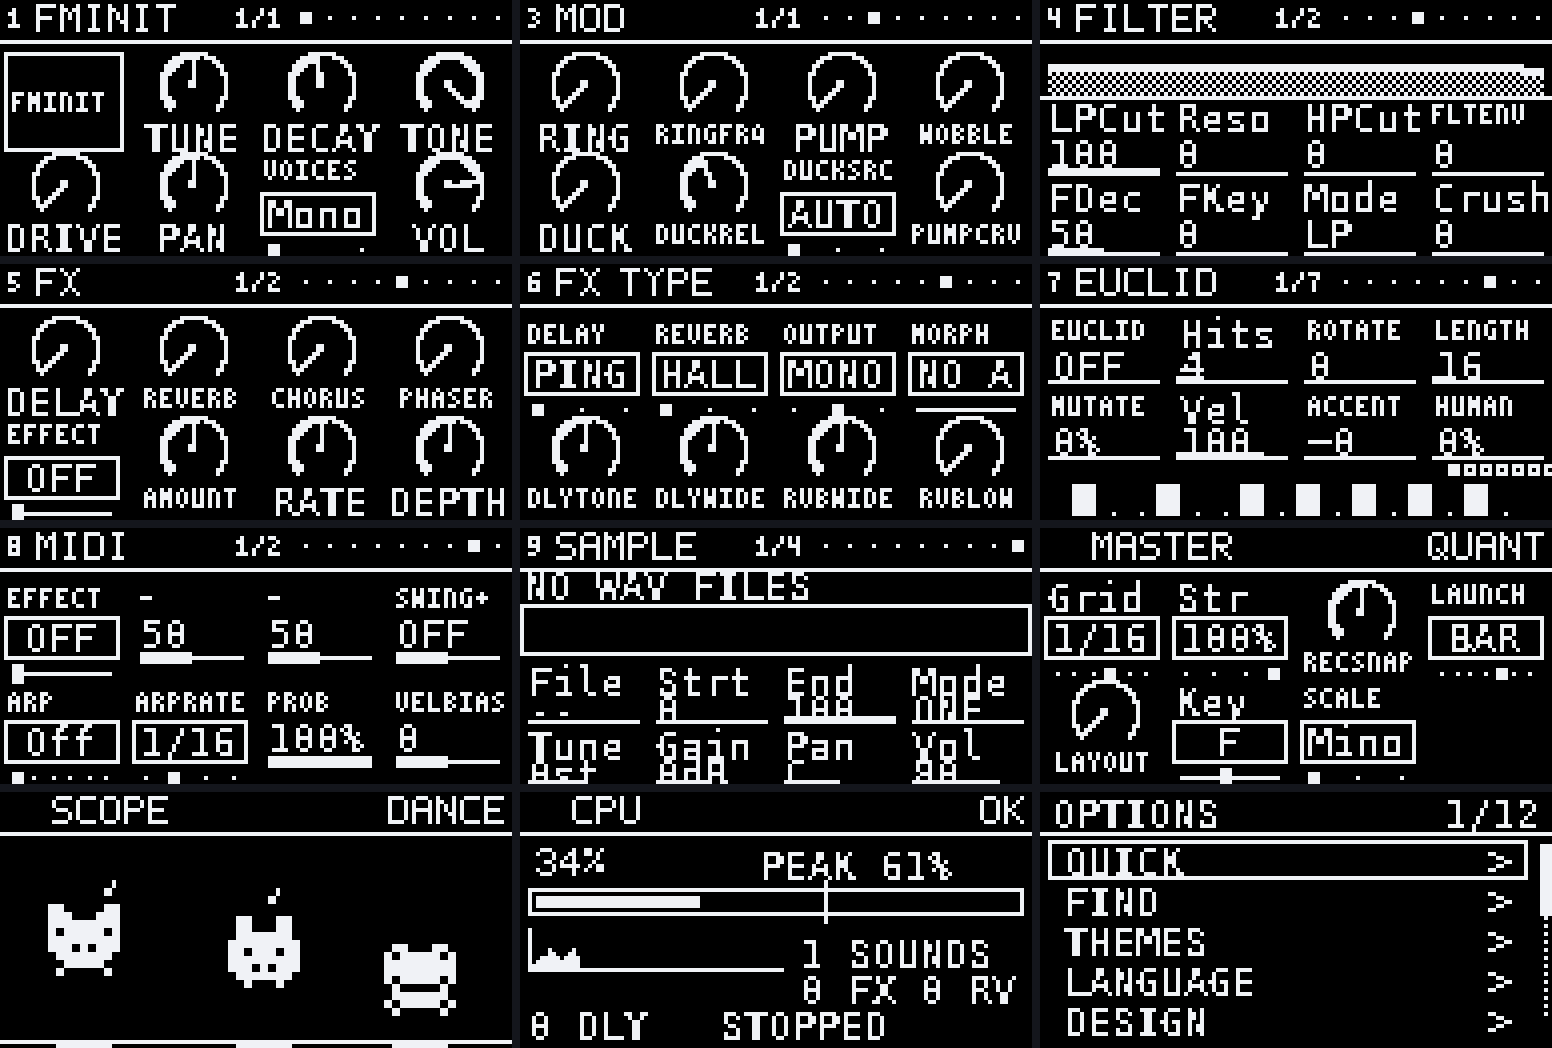
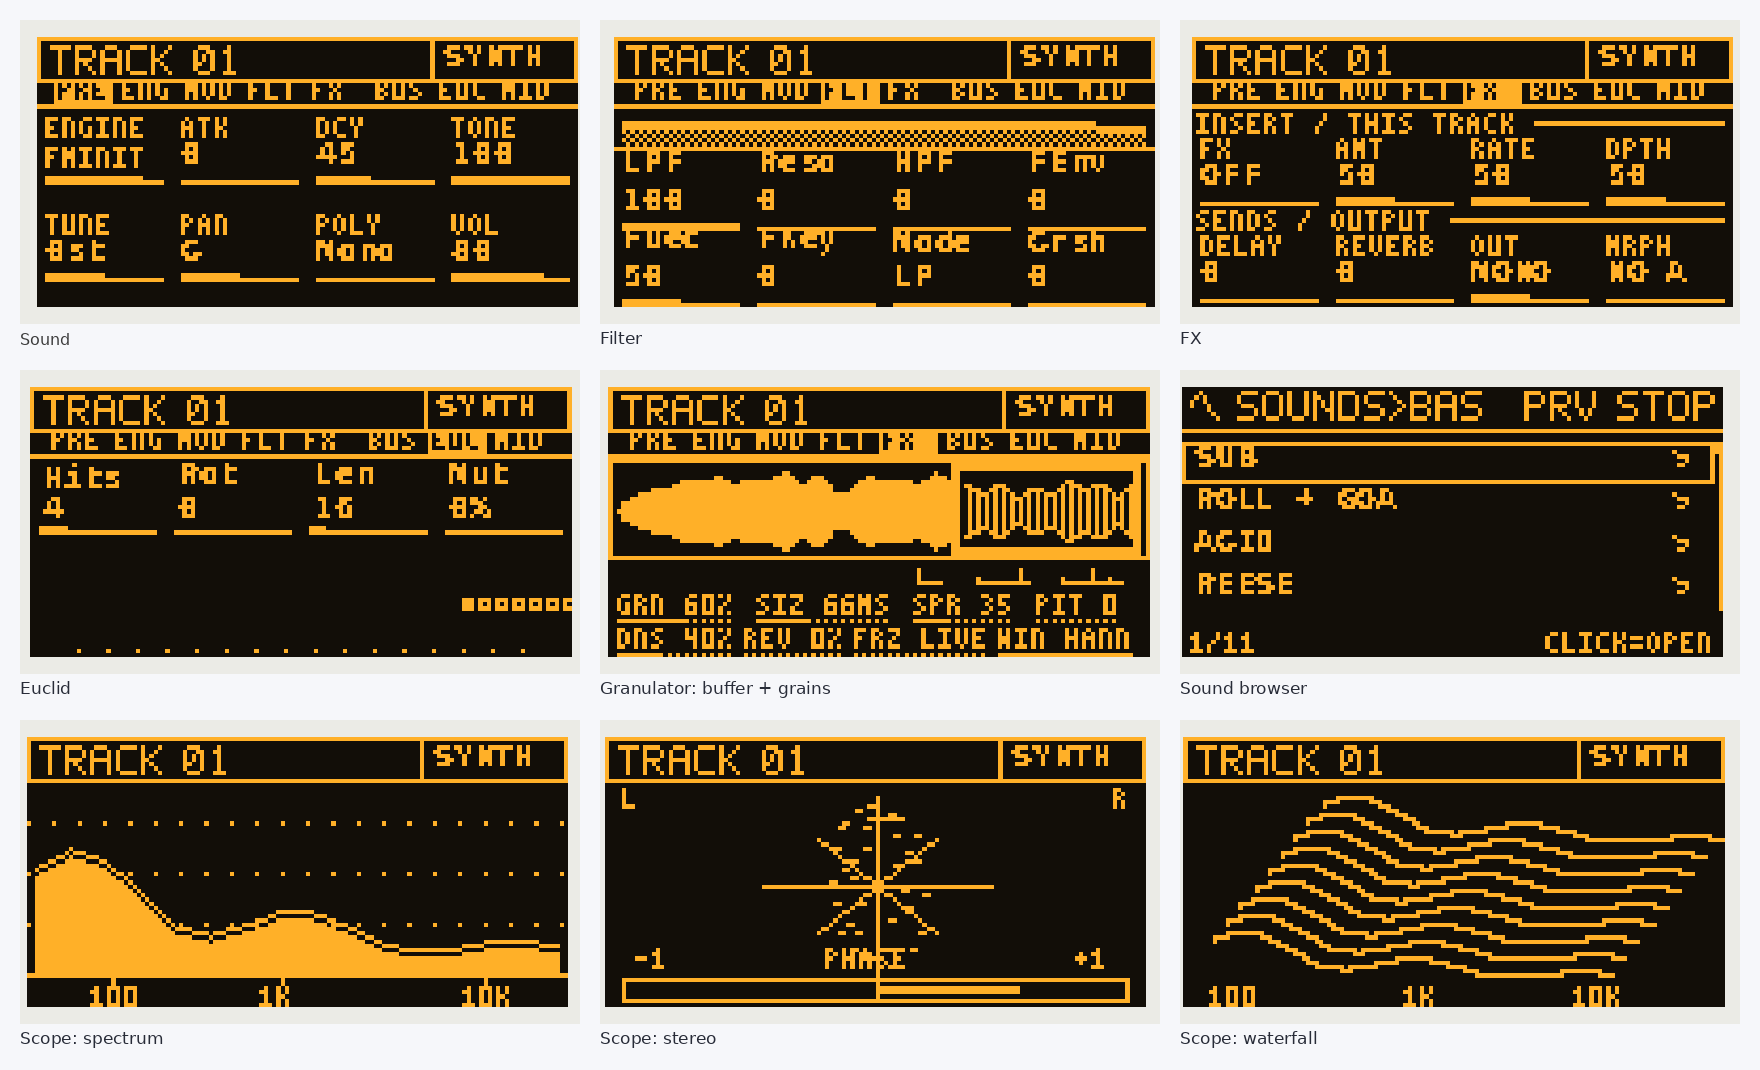
Repo polish: English changelog, new display preview, YouTube link, browser test in CI, release notes from changelog
Claude-Session: https://claude.ai/code/session_01Af2zXb88SauRr4rU6hK8zR

diff --git a/taktile/tools/test/test_browser.js b/taktile/tools/test/test_browser.js
@@ -1,0 +1,52 @@
+// Sound browser test: sorted lists, level knobs, preview modes, pads while browsing (mocked host).
+const { ctx, run, cc, writes, setCalls } = require('./harness.js');
+let failed = 0; const ok = (c, m) => { console.log((c ? 'ok   ' : 'FAIL ') + m); if (!c) failed++; };
+const T = (n) => { for (let i = 0; i < n; i++) ctx.tick(); };
+ctx.init && ctx.init(); T(300);
+run('chosen[0] = 1; askKind = -1; needsRedraw = true'); T(20);
+run('selectTrack(0); setKind(0, 0); selectTrack(0); askKind = -1'); T(20);
+const knob = (k, v) => { run('fbKT = 0'); ctx.onMidiMessageInternal([0xB0, 71 + k, v]); };
+const clicks = (k, v, n) => { for (let i = 0; i < n; i++) knob(k, v); };
+const path = () => JSON.parse(run('JSON.stringify(fb.st.map(s => s.node.n || "root"))'));
+const label = () => run('(() => { const t = fb.st[fb.st.length - 1], it = fbItems(t.node)[t.i]; return it ? it.label : null; })()');
+
+// 1. every list of sounds / kits / samples / effects is sorted by name (INIT first)
+run('fbOpen(); fb.st = [fb.st[0]]');
+let leaves = 0, unsorted = 0;
+const walk = (p) => {
+  if (run('!!(' + p + ').kids')) { const n = run('(' + p + ').kids.length'); for (let i = 0; i < n; i++) walk(p + '.kids[' + i + ']'); return; }
+  const l = JSON.parse(run('JSON.stringify(fbItems(' + p + ').map(x => x.label))')); const body = l[0] === 'INIT' ? l.slice(1) : l;
+  const s = body.slice().sort((a, b) => a.localeCompare(b, 'en', { numeric: true, sensitivity: 'base' })); leaves++;
+  if (body.some((x, i) => x !== s[i])) unsorted++;
+};
+walk('fbTree()'); ok(leaves > 50 && unsorted === 0, 'all ' + leaves + ' sound lists are sorted by name (' + unsorted + ' unsorted)');
+
+// 2. level knobs: knob 1 changes the main folder, the display follows, 6 clicks make one step
+run('fbOpen()'); T(3);
+const d0 = run('fb.st.length'), i0 = run('fb.st[0].i');
+clicks(0, 1, 5); ok(run('fb.st[0].i') === i0, '5 clicks on knob 1: no step yet');
+clicks(0, 1, 1); const i1 = run('fb.st[0].i'); ok(i1 !== i0, 'the 6th click moves the main folder (' + i0 + ' -> ' + i1 + ')');
+ok(run('fbShow') === 0, 'the display shows the level of knob 1');
+clicks(1, 1, 6); ok(run('fbShow') === 1 || run('fb.st.length') === 1, 'knob 2 shows the next level');
+ok(run('fbShowIdx()') >= 0, 'shown level is valid');
+
+// 3. preview mode on knob 8: OFF / STOP / ALL (Shift + knob 8 = volume)
+run('fbPm = 1'); clicks(7, 1, 2); ok(run('fbPm') === 2, 'knob 8 right: preview ALL');
+clicks(7, 127, 4); ok(run('fbPm') === 0, 'knob 8 left: preview OFF');
+run('fbSetPm(1)'); run('playing = false'); ok(run('fbPrevOn()') === true, 'STOP: preview active while stopped');
+run('playing = true'); ok(run('fbPrevOn()') === false, 'STOP: preview silent while playing');
+run('fbSetPm(2)'); ok(run('fbPrevOn()') === true, 'ALL: preview also while playing');
+run('playing = false; fbSetPm(0)');
+
+// 4. a pad press in the browser loads the highlighted sound and records nothing
+run('fbOpen(); while (fb.st.length > 1 && !fbIsLeaf(fb.st[fb.st.length - 1].node)) fbClick();');
+run('fbMove(1, 1)'); const typeBefore = run('Math.round(pads[ln()][0])'); const target = run('fbItems(fb.st[fb.st.length - 1].node)[fb.st[fb.st.length - 1].i].val');
+const stepsBefore = run('JSON.stringify(steps)'); run('recArmed = true; playing = true'); setCalls.length = 0;
+ctx.onMidiMessageInternal([0x90, 68, 100]); T(2); ctx.onMidiMessageInternal([0x90, 68, 0]); T(2);
+ok(run('JSON.stringify(steps)') === stepsBefore, 'pad pressed while browsing in record mode: nothing is recorded');
+ok(run('Math.round(pads[ln()][0])') === target, 'pad press with preview OFF loads the highlighted sound (' + typeBefore + ' -> ' + target + ')');
+ok(setCalls.some((c) => c[0] === 'npad' && /^0,\d+,0$/.test(c[1])), 'and the pad plays it');
+
+ok(writes.length === 0, 'no handler error logged' + (writes.length ? ' -> ' + String(writes[0]).slice(0, 200) : ''));
+if (failed) { console.log('FAILED ' + failed); process.exit(1); }
+console.log('all ok');

diff --git a/CHANGELOG.md b/CHANGELOG.md
@@ -1,64 +1,64 @@
 # Changelog
 
 ## 5.176.0 (19 October 2026)
-- Repo aufgeraeumt: doppelte Handbuch-PDFs und Vorschaubild im Hauptordner, die zwei falschen deutschen Anleitungs-Kopien (waren englisch) und die alten 5.4-Tests entfernt; Handbuecher liegen nur noch in taktile/docs
+- Repo cleanup: removed duplicate manual PDFs and preview image from the root, two mislabelled German guide copies (they were English) and the old 5.4 tests; manuals now live only in taktile/docs
 
 ## 5.175.0 (18 October 2026)
-- Browser: Regler scrollen deutlich langsamer (6 Klicks pro Schritt, hoechstens ein Schritt alle 150 ms)
+- Browser: knobs scroll much slower (6 clicks per step, at most one step every 150 ms)
 
 ## 5.174.0 (18 October 2026)
-- Parametername oben rechts beim Drehen ausgeschrieben (z.B. PROBABILITY statt PROB, GRAIN DENSITY), lange Namen laufen durch
+- Full parameter name top right while turning a knob (e.g. PROBABILITY instead of PROB, GRAIN DENSITY); long names scroll
 
 ## 5.173.0 (18 October 2026)
-- Browser: das Display zeigt immer nur die Ebene des zuletzt gedrehten Reglers (volle Breite); Regler 1 = Hauptordner, jeder weitere Regler oeffnet die naechste Ebene bis zu den Sounds
+- Browser: the display shows only the level of the knob you turned last (full width); knob 1 = main folders, every further knob opens the next level down to the sounds
 
 ## 5.172.0 (18 October 2026)
-- Browser: geteilte Ansicht entfernt, Liste wieder ueber die ganze Breite mit den Kategorie-Kaestchen oben; Bedienung der Ebenen nur ueber die Regler 1-5
+- Browser: split view removed, full-width list with the category boxes on top again; levels are operated with knobs 1-5 only
 
 ## 5.171.0 (18 October 2026)
-- Browser: Regler 1-5 steuern die Ebenen des Baums von oben (Regler 1 Hauptordner, 2 naechste Ebene ..., der letzte die Sounds), Regler 8 = Vorschau OFF/STOP/ALL (Shift+Regler 8 = Lautstaerke)
+- Browser: knobs 1-5 control the tree levels from the top, knob 8 = preview OFF / STOP / ALL (Shift + knob 8 = preview volume)
 
 ## 5.170.0 (18 October 2026)
-- Browser: Regler 1 und 2 scrollen langsamer (Regler 2: 3 Klicks = 1 Eintrag, Regler 1: 4 Klicks = 1 Kategorie, kein schnelles Ueberspringen mehr)
+- Browser: knobs 1 and 2 scroll slower, no fast skipping any more
 
 ## 5.169.0 (18 October 2026)
-- Browser: Regler 1 = linke Spalte (Kategorien), Regler 2 = rechte Spalte (Sounds), Regler 3 = Vorschau AUS / STOP (Standard, nur im Stop) / ALL; Shift+Regler 3 = Vorschau-Lautstaerke
+- Browser: knob 1 = left column (categories), knob 2 = right column (sounds), knob 3 = preview OFF / STOP (default, only while stopped) / ALL; Shift + knob 3 = preview volume
 
 ## 5.168.0 (18 October 2026)
-- Browser: Pfeiltasten links/rechts wechseln die Kategorie (in Ordnerlisten: links = zurueck, rechts = oeffnen); lange Kategorienamen laufen in der linken Spalte durch
+- Browser: arrow keys switch category (folder lists: left = back, right = open); long category names scroll
 
 ## 5.167.0 (18 October 2026)
-- Browser: geteilte Ansicht (Option B3): links die Kategorien, rechts die Sounds; Regler 3 schaltet zwischen SPLIT und TABS
+- Browser: split view (categories left, sounds right); knob 3 switches between SPLIT and TABS
 
 ## 5.166.0 (18 October 2026)
-- Granulator-Seite wie im Bild: grosse Puffer-Anzeige (Wellenform, Lese-Rahmen, Grain-Striche) und die 8 Werte als Text mit Balken darunter statt der Kacheln
+- Granulator page redesigned: large buffer picture (waveform, read frame, grain ticks) and the 8 values as text with bars instead of tiles
 
 ## 5.165.0 (18 October 2026)
-- Browser: Regler 2 = Vorschau-Lautstaerke (10-100 %, Standard 70 %, Anzeige oben rechts, leuchtet mit der Staerke); Design-Themes entfernt: es gibt nur noch das bisherige Standard-Design
+- Browser: knob 2 = preview volume (10-100 %, default 70 %, shown top right, knob lights with the level); design themes removed, the previous default design is the only one
 
 ## 5.164.0 (18 October 2026)
-- Browser: Pad druecken laedt und spielt den markierten Sound sofort, auch bei PRV aus und ohne Jog-Klick (Back macht es rueckgaengig)
+- Browser: a pad press loads and plays the highlighted sound right away, also with preview off and without a jog click (Back undoes it)
 
 ## 5.163.0 (18 October 2026)
-- Browser: schnelles Scrollen auf Regler 2 entfernt, nur Regler 1 (Vorschau) bleibt und leuchtet
+- Browser: fast scrolling on knob 2 removed, only knob 1 (preview) stays and lights up
 
 ## 5.162.0 (18 October 2026)
-- Browser: bei offenem Sound-Browser spielen die Pads nur den Ton, auch bei Record wird nichts in den Clip aufgenommen
+- Browser: with the browser open the pads only play the sound, nothing is recorded into the clip even in record mode
 
 ## 5.161.0 (18 October 2026)
-- Browser: Regler 1 (Vorschau, hell = an, gedimmt = aus) und Regler 2 (schnelles Scrollen) leuchten unter dem Display
+- Browser: knob 1 (preview, bright = on, dim = off) and knob 2 (fast scroll) light up under the display
 
 ## 5.160.0 (18 October 2026)
-- Browser: Sounds, Kits, Samples, Presets und Effekte nach Namen sortiert (A-Z, INIT zuerst); Regler 2 = schnelles Scrollen
+- Browser: sounds, kits, samples, presets and effects sorted by name (A-Z, INIT first); knob 2 = fast scroll
 
 ## 5.159.0 (18 October 2026)
-- Browser: Regler 1 schaltet die Vorschau (PRV/OFF) ein und aus: nach rechts drehen = ein, nach links = aus (ersetzt das schnelle Scrollen auf Regler 1)
+- Browser: knob 1 switches the preview (PRV/OFF) on and off: turn right = on, left = off (replaces fast scrolling on knob 1)
 
 ## 5.158.0 (18 October 2026)
-- Scope: alle Ansichten waehlbar (Jog-Klick): 6 WAVE+16 Baender mit Peak-Kappen, 7 SPECTRUM, 8 STEREO mit Phasenanzeige, 9 WATERFALL, 10 BEAT; DSP liefert 16 Baender, Stereo-Punkte, Phase
+- Scope: all views selectable with a jog click: WAVE+16 bands with peak caps, SPECTRUM, STEREO with phase meter, WATERFALL, BEAT; the DSP delivers 16 bands, stereo points and phase
 
 ## 5.157.0 (18 October 2026)
-- Granulator-Anzeige neu: Puffer-Ansicht mit Wellenform der letzten Sekunden, Lesebereich (Spread) als Klammer, jeder Grain als Strich mit Laengenbalken
+- Granulator display redesigned: buffer view with the waveform of the last seconds, read area (spread) as a bracket, every grain as a tick with a length bar
 
 ## 5.156.0 (18 October 2026)
 - Browser redesign: breadcrumb path in the header (DRUMS>KITS>TECHNO) with PRV/OFF top right, 4-row list with scroll bar, bottom line with position and what the click does

diff --git a/README.md b/README.md
@@ -24,10 +24,14 @@ Taktile is a pattern-based groove box built for jamming live. It takes over the 
 ## On the display
 
 <p align="center">
-  <img src="taktile/docs/display-preview.png" alt="Preview of the Taktile display pages: sound, filter, mod, FX, master bus, EQ, kit, step and options" width="85%">
+  <img src="taktile/docs/display-preview.png" alt="Preview of the Taktile display pages: sound, filter, FX, Euclid, granulator, sound browser and scope views" width="85%">
 </p>
 
-<p align="center"><sub>Display pages rendered on a desktop (simulator): sound, filter, mod, FX, master bus, master EQ, kit, step parameters and options.</sub></p>
+<p align="center"><sub>Display pages rendered on a desktop (simulator): sound, filter, FX, Euclid, granulator with buffer view, sound browser and the spectrum, stereo and waterfall scope views.</sub></p>
+
+## Videos and updates
+
+Demos, tutorials and progress updates are on the [TaktOnMusic YouTube channel](https://www.youtube.com/@taktonmusic).
 
 ## Features
 
